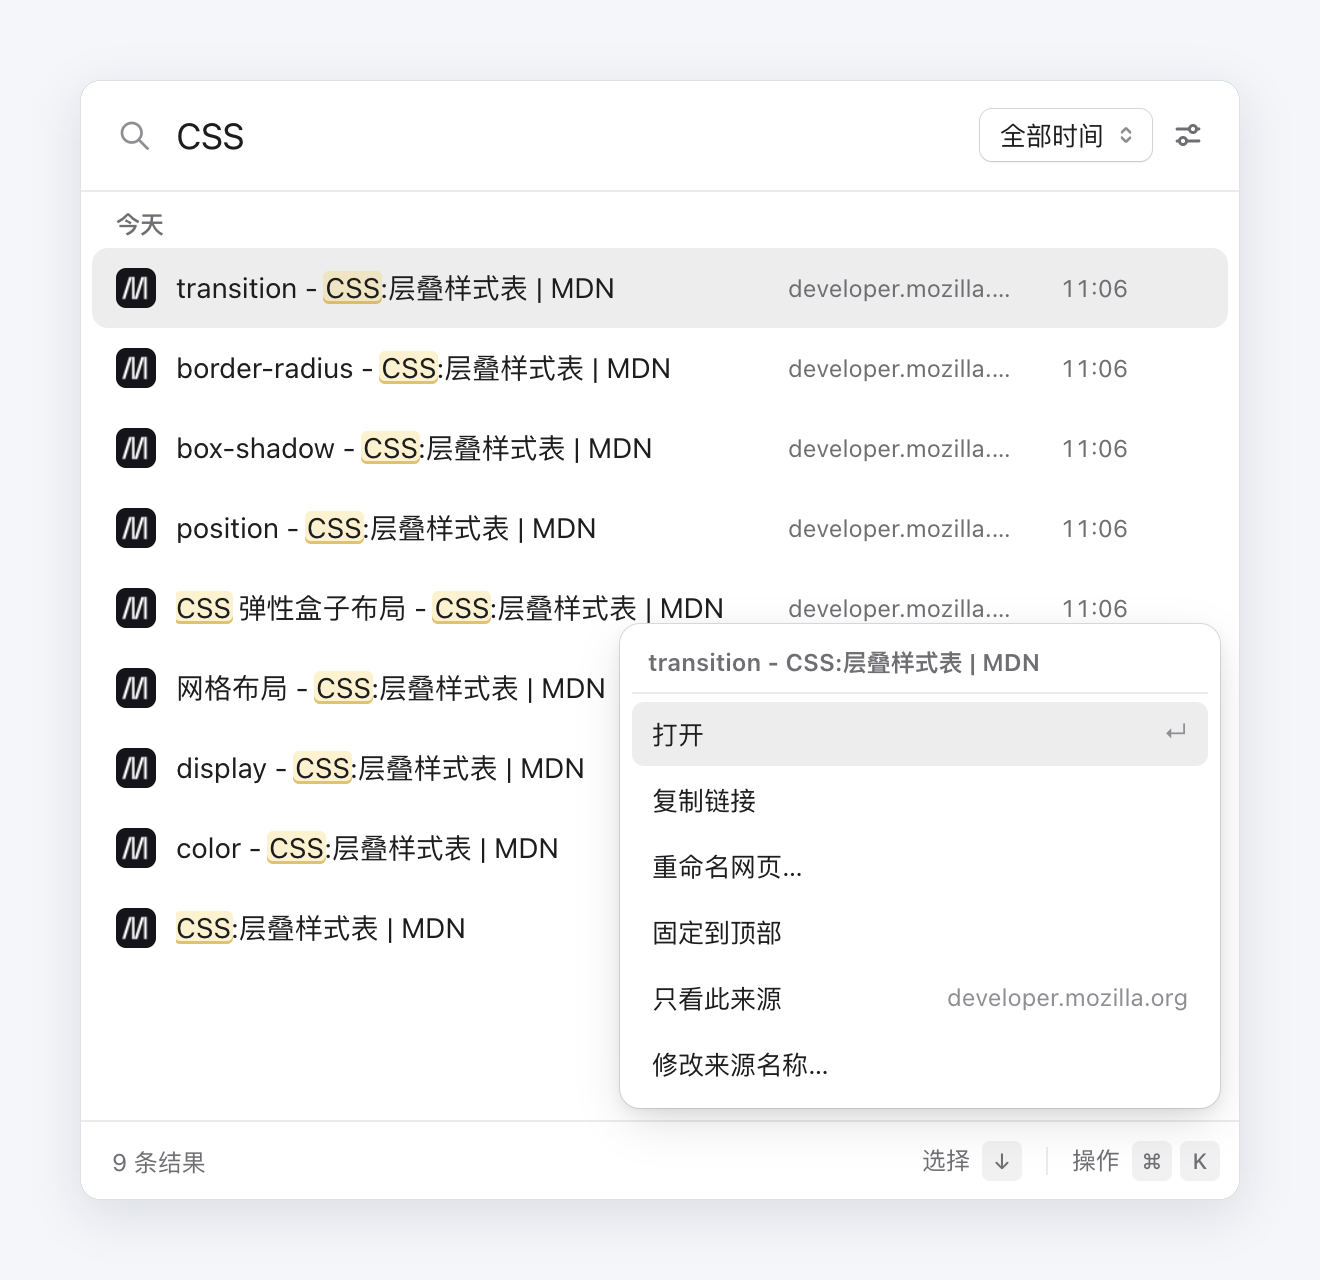
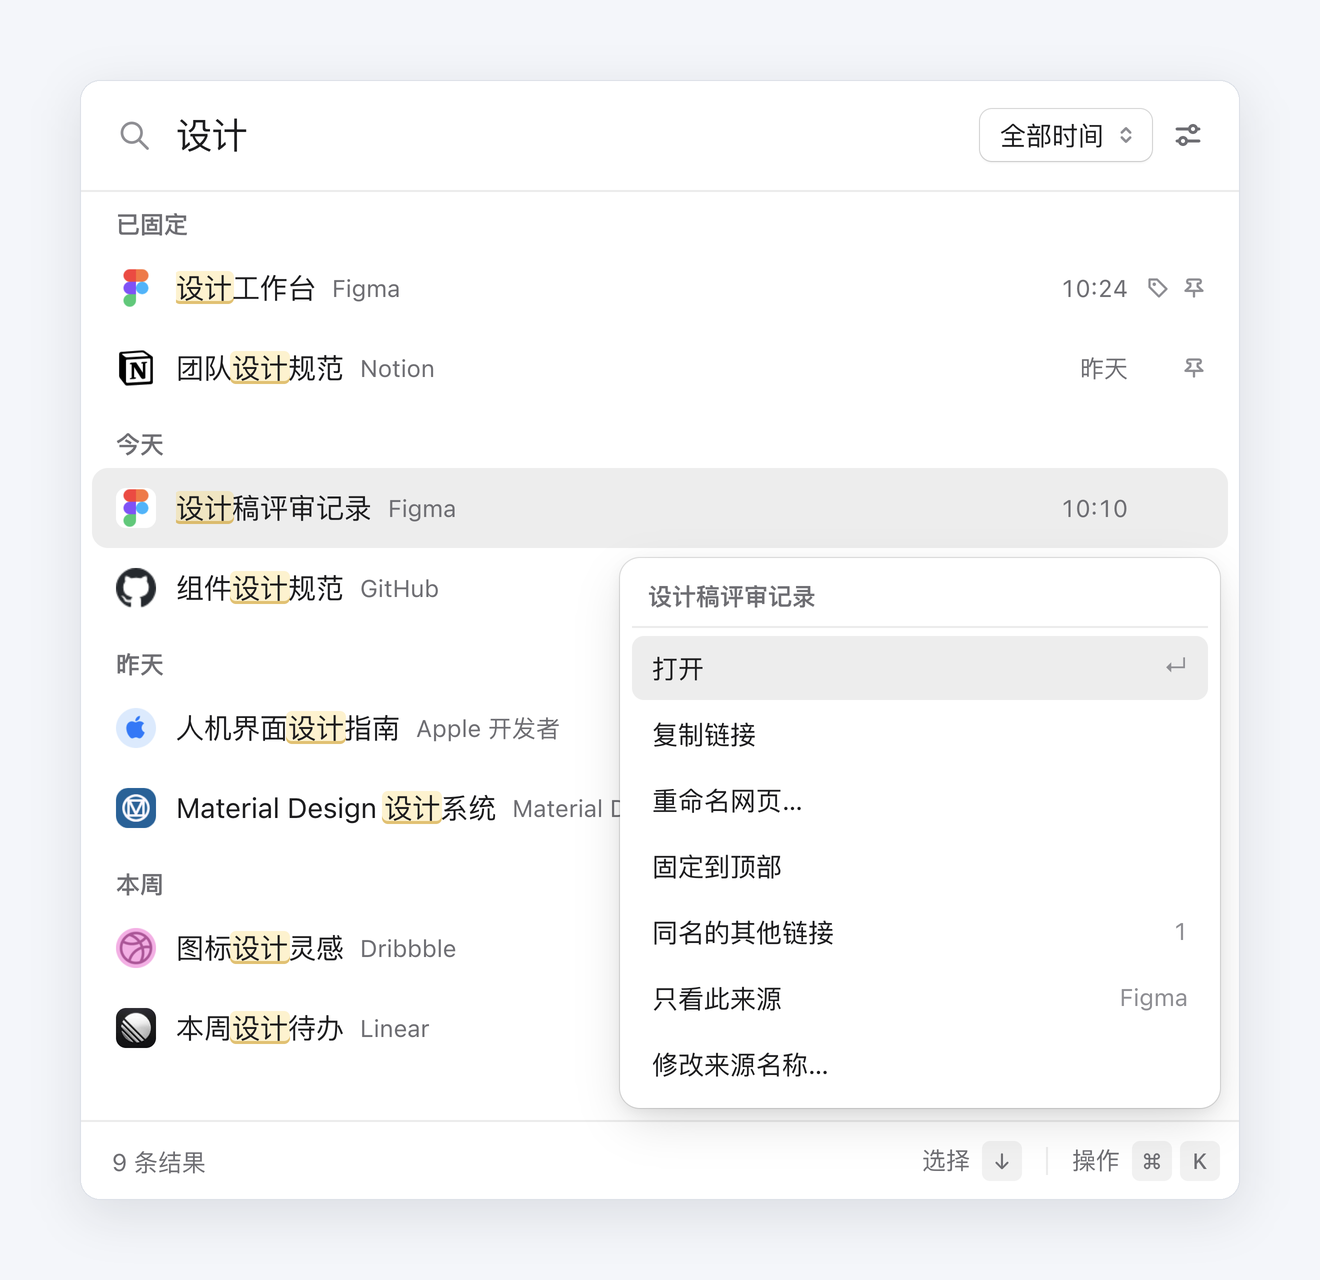
docs: showcase rename pins and timeline with sample data

diff --git a/README.md b/README.md
@@ -17,8 +17,9 @@
 喵迹是一款 Chrome 历史记录搜索扩展。按下快捷键，用记得的标题或曾用名找回页面，自动归并重复链接，也能给常用页面改名、固定。
 
 <p align="center">
-  <img src="docs/images/search.png" width="680" alt="喵迹搜索公开 CSS 文档，显示命中高亮、来源和访问时间">
+  <img src="docs/images/search.png" width="680" alt="喵迹功能总览：重命名标签、固定图钉、时间分组、尾随来源和关键词高亮">
 </p>
+<p align="center"><sub>使用示例数据展示已重命名、已固定、时间分组、来源标签与关键词高亮。</sub></p>
 
 ## 功能
 
@@ -34,7 +35,7 @@
 选中结果后按 ⌘K / Ctrl+K，或右键点击结果。
 
 <p align="center">
-  <img src="docs/images/actions.png" width="680" alt="喵迹操作面板，可打开页面、复制链接、重命名、固定和按来源筛选">
+  <img src="docs/images/actions.png" width="680" alt="使用同一组示例数据展示操作面板，可重命名、固定、查看同名链接和筛选来源">
 </p>
 
 </details>
